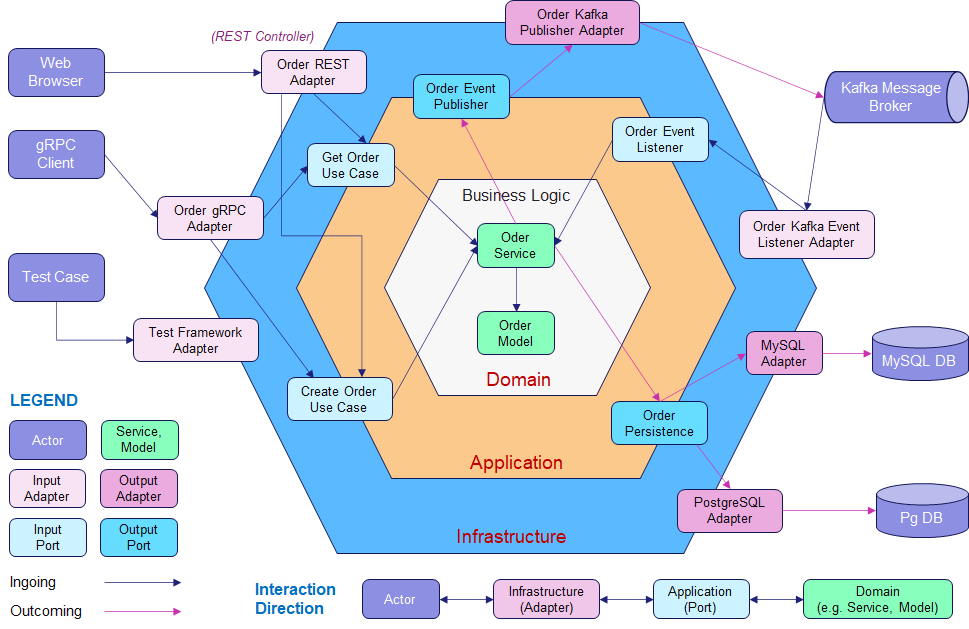
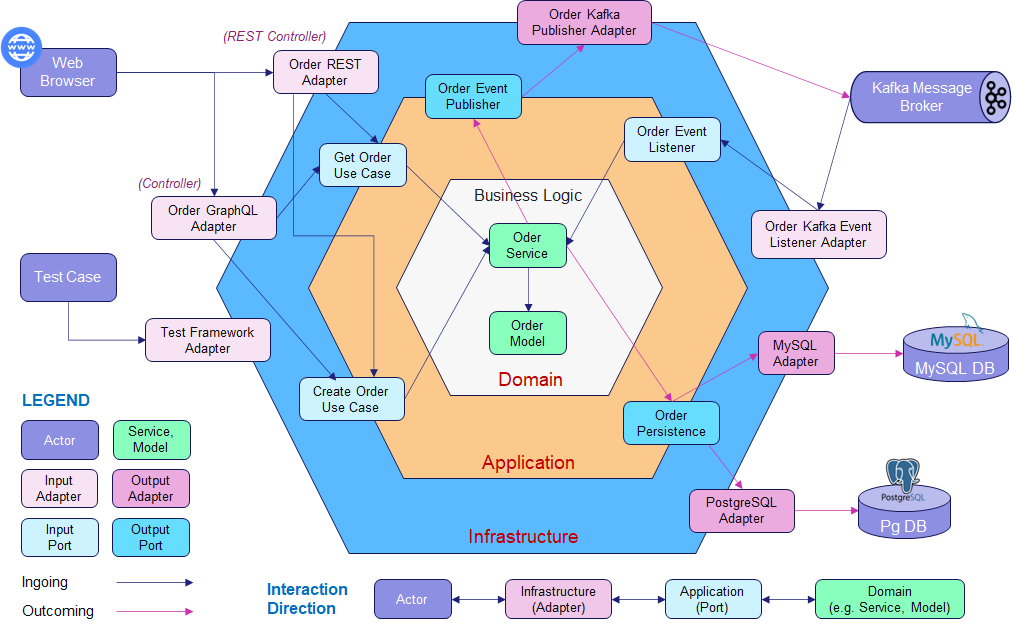
Updated GraphQL input

diff --git a/src/main/java/com/seedotech/dddhexagonalarchitecture/infrastructure/adapters/input/graphql/OrderGraphQLAdapter.java b/src/main/java/com/seedotech/dddhexagonalarchitecture/infrastructure/adapters/input/graphql/OrderGraphQLAdapter.java
@@ -4,6 +4,8 @@ import com.seedotech.dddhexagonalarchitecture.application.ports.input.CreateOrde
 import com.seedotech.dddhexagonalarchitecture.application.ports.input.GetOrderUseCase;
 import com.seedotech.dddhexagonalarchitecture.domain.model.Order;
 import com.seedotech.dddhexagonalarchitecture.domain.model.Restaurant;
+import com.seedotech.dddhexagonalarchitecture.infrastructure.adapters.input.graphql.data.request.OrderGraphQLInput;
+import com.seedotech.dddhexagonalarchitecture.infrastructure.adapters.input.graphql.mapper.OrderGraphQLMapper;
 import com.seedotech.dddhexagonalarchitecture.infrastructure.adapters.input.rest.data.request.OrderCreateRequest;
 import com.seedotech.dddhexagonalarchitecture.infrastructure.adapters.input.rest.mapper.OrderRestMapper;
 import graphql.schema.DataFetchingEnvironment;
@@ -25,16 +27,14 @@ public class OrderGraphQLAdapter {
 
     private final GetOrderUseCase getOrderUseCase;
 
-    private final OrderRestMapper orderRestMapper;
+    private final OrderGraphQLMapper orderGraphQLMapper;
 
     @MutationMapping
-    public Order createOrder(@Argument OrderCreateRequest orderCreateRequest) {
+    public Order createOrder(@Argument OrderGraphQLInput orderGraphQLInput) {
         // Request to domain
-        Order order = orderRestMapper.toOrder(orderCreateRequest);
+        Order order = orderGraphQLMapper.toOrder(orderGraphQLInput);
 
         order = createOrderUseCase.createOrder(order);
-
-        // Domain to response
         return order;
     }
 
@@ -45,7 +45,7 @@ public class OrderGraphQLAdapter {
     }
 
 //    @QueryMapping
-//    public Order order(@Argument Long id, DataFetchingEnvironment environment) {
+//    public Iterable<Department> order(@Argument Long id, DataFetchingEnvironment environment) {
 //        Specification<Order> spec = byId(id);
 //        DataFetchingFieldSelectionSet selectionSet = environment.getSelectionSet();
 //        if (selectionSet.contains("restaurants"))

diff --git a/src/main/java/com/seedotech/dddhexagonalarchitecture/infrastructure/adapters/input/graphql/mapper/OrderGraphQLMapper.java b/src/main/java/com/seedotech/dddhexagonalarchitecture/infrastructure/adapters/input/graphql/mapper/OrderGraphQLMapper.java
@@ -1,0 +1,14 @@
+package com.seedotech.dddhexagonalarchitecture.infrastructure.adapters.input.graphql.mapper;
+
+import com.seedotech.dddhexagonalarchitecture.domain.model.Order;
+import com.seedotech.dddhexagonalarchitecture.infrastructure.adapters.input.graphql.data.request.OrderGraphQLInput;
+import com.seedotech.dddhexagonalarchitecture.infrastructure.adapters.input.rest.data.request.OrderCreateRequest;
+import com.seedotech.dddhexagonalarchitecture.infrastructure.adapters.input.rest.data.response.OrderCreateResponse;
+import com.seedotech.dddhexagonalarchitecture.infrastructure.adapters.input.rest.data.response.OrderQueryResponse;
+import org.mapstruct.Mapper;
+
+@Mapper
+public interface OrderGraphQLMapper {
+
+    Order toOrder(OrderGraphQLInput orderGraphQLInput);
+}

diff --git a/src/main/java/com/seedotech/dddhexagonalarchitecture/infrastructure/adapters/output/persistence/OrderPersistenceAdapter.java b/src/main/java/com/seedotech/dddhexagonalarchitecture/infrastructure/adapters/output/persistence/OrderPersistenceAdapter.java
@@ -7,6 +7,7 @@ import com.seedotech.dddhexagonalarchitecture.infrastructure.adapters.output.per
 import com.seedotech.dddhexagonalarchitecture.infrastructure.adapters.output.persistence.repository.OrderRepository;
 import lombok.RequiredArgsConstructor;
 
+import java.util.List;
 import java.util.Optional;
 
 @RequiredArgsConstructor
@@ -34,5 +35,4 @@ public class OrderPersistenceAdapter implements OrderPersistence {
         Order order = orderPersistenceMapper.toOrder(orderEntity.get());
         return Optional.of(order);
     }
-
 }

diff --git a/src/main/java/com/seedotech/dddhexagonalarchitecture/infrastructure/adapters/input/graphql/data/request/OrderGraphQLInput.java b/src/main/java/com/seedotech/dddhexagonalarchitecture/infrastructure/adapters/input/graphql/data/request/OrderGraphQLInput.java
@@ -1,0 +1,15 @@
+package com.seedotech.dddhexagonalarchitecture.infrastructure.adapters.input.graphql.data.request;
+
+import lombok.*;
+
+@Data
+@AllArgsConstructor
+@NoArgsConstructor
+public class OrderGraphQLInput {
+
+    private String name;
+
+    private String description;
+
+    private int total;
+}

diff --git a/src/main/java/com/seedotech/dddhexagonalarchitecture/application/ports/output/OrderPersistence.java b/src/main/java/com/seedotech/dddhexagonalarchitecture/application/ports/output/OrderPersistence.java
@@ -9,5 +9,4 @@ public interface OrderPersistence {
     Order saveOrder(Order order);
 
     Optional<Order> getOrderById(Long id);
-
 }

diff --git a/README.md b/README.md
@@ -41,95 +41,104 @@ They are implementations of a functionality (**Port**) for a given **product/tec
 
 **Project Structure**
 ```
-└───dddhexagonalarchitecture                                      
-    │   DDDHexagonalArchitectureApplication.java                  
-    │                                                             
-    ├───application                                               
-    │   └───ports                                                 
-    │       ├───input                                             
-    │       │       CreateOrderUseCase.java                       
-    │       │       CreateRestaurantUseCase.java                  
-    │       │       GetOrderUseCase.java                          
-    │       │       GetRestaurantUseCase.java                     
-    │       │                                                     
-    │       └───output                                            
-    │               OrderEventPublisher.java                      
-    │               OrderPersistence.java                         
-    │               RestaurantPersistence.java                    
-    │                                                             
-    ├───domain                                                    
-    │   ├───event                                                 
-    │   │       OrderCreatedEvent.java                            
-    │   │                                                         
-    │   ├───exception                                             
-    │   │       OrderNotFound.java                                
-    │   │       RestaurantNotFound.java                           
-    │   │                                                         
-    │   ├───model                                                 
-    │   │       Order.java                                        
-    │   │       Restaurant.java                                   
-    │   │                                                         
-    │   └───service                                               
-    │           OrderService.java                                 
-    │           RestaurantService.java                            
-    │                                                             
-    └───infrastructure                                            
-        └───adapters                                              
-            ├───config                                            
-            │       BeanConfiguration.java                        
-            │                                                     
-            ├───input                                             
-            │   ├───eventlistener                                 
-            │   │       OrderEventListenerAdapter.java            
-            │   │                                                 
-            │   ├───grpc                                          
-            │   │   ├───data                                      
-            │   │   └───mapper                                    
-            │   └───rest                                          
-            │       │   OrderRestAdapter.java                     
-            │       │   RestaurantRestAdapter.java                
-            │       │                                             
-            │       ├───data                                      
-            │       │   ├───request                               
-            │       │   │       OrderCreateRequest.java           
-            │       │   │       RestaurantCreateRequest.java      
-            │       │   │                                         
-            │       │   └───response                              
-            │       │           OrderCreateResponse.java          
-            │       │           OrderQueryResponse.java           
-            │       │           RestaurantCreateResponse.java     
-            │       │           RestaurantQueryResponse.java      
-            │       │                                             
-            │       └───mapper                                    
-            │               OrderRestMapper.java                  
-            │               RestaurantRestMapper.java             
-            │                                                     
-            └───output                                            
-                ├───customizedexception                           
-                │   │   CustomizedExceptionAdapter.java           
-                │   │                                             
-                │   └───data                                      
-                │       └───response                              
-                │               ExceptionResponse.java            
-                │                                                 
-                ├───eventpublisher                                
-                │       OrderEventPublisherAdapter.java           
-                │                                                 
-                └───persistence                                   
-                    │   OrderPersistenceAdapter.java              
-                    │   RestaurantPersistenceAdapter.java         
-                    │                                             
-                    ├───entity                                    
-                    │       OrderEntity.java                      
-                    │       RestaurantEntity.java                 
-                    │                                             
-                    ├───mapper                                    
-                    │       OrderPersistenceMapper.java           
-                    │       RestaurantPersistenceMapper.java      
-                    │                                             
-                    └───repository                                
-                            OrderRepository.java                  
-                            RestaurantRepository.java                                                                                           
+│   DDDHexagonalArchitectureApplication.java               
+│                                                          
+├───application                                            
+│   └───ports                                              
+│       ├───input                                          
+│       │       CreateOrderUseCase.java                    
+│       │       CreateRestaurantUseCase.java               
+│       │       GetOrderUseCase.java                       
+│       │       GetRestaurantUseCase.java                  
+│       │                                                  
+│       └───output                                         
+│               OrderEventPublisher.java                   
+│               OrderPersistence.java                      
+│               RestaurantPersistence.java                 
+│                                                          
+├───domain                                                 
+│   ├───event                                              
+│   │       OrderCreatedEvent.java                         
+│   │                                                      
+│   ├───exception                                          
+│   │       OrderNotFound.java                             
+│   │       RestaurantNotFound.java                        
+│   │                                                      
+│   ├───model                                              
+│   │       Order.java                                     
+│   │       Restaurant.java                                
+│   │                                                      
+│   └───service                                            
+│           OrderService.java                              
+│           RestaurantService.java                         
+│                                                          
+└───infrastructure                                         
+    └───adapters                                           
+        ├───config                                         
+        │       BeanConfiguration.java                     
+        │                                                  
+        ├───input                                          
+        │   ├───eventlistener                              
+        │   │       OrderEventListenerAdapter.java         
+        │   │                                              
+        │   ├───graphql                                    
+        │   │   │   OrderGraphQLAdapter.java               
+        │   │   │                                          
+        │   │   ├───data                                   
+        │   │   │   └───request                            
+        │   │   │           OrderGraphQLInput.java         
+        │   │   │                                          
+        │   │   └───mapper                                 
+        │   │           OrderGraphQLMapper.java            
+        │   │                                              
+        │   ├───grpc                                       
+        │   │   ├───data                                   
+        │   │   └───mapper                                 
+        │   └───rest                                       
+        │       │   OrderRestAdapter.java                  
+        │       │   RestaurantRestAdapter.java             
+        │       │                                          
+        │       ├───data                                   
+        │       │   ├───request                            
+        │       │   │       OrderCreateRequest.java        
+        │       │   │       RestaurantCreateRequest.java   
+        │       │   │                                      
+        │       │   └───response                           
+        │       │           OrderCreateResponse.java       
+        │       │           OrderQueryResponse.java        
+        │       │           RestaurantCreateResponse.java  
+        │       │           RestaurantQueryResponse.java   
+        │       │                                          
+        │       └───mapper                                 
+        │               OrderRestMapper.java               
+        │               RestaurantRestMapper.java          
+        │                                                  
+        └───output                                         
+            ├───customizedexception                        
+            │   │   CustomizedExceptionAdapter.java        
+            │   │                                          
+            │   └───data                                   
+            │       └───response                           
+            │               ExceptionResponse.java         
+            │                                              
+            ├───eventpublisher                             
+            │       OrderEventPublisherAdapter.java        
+            │                                              
+            └───persistence                                
+                │   OrderPersistenceAdapter.java           
+                │   RestaurantPersistenceAdapter.java      
+                │                                          
+                ├───entity                                 
+                │       OrderEntity.java                   
+                │       RestaurantEntity.java              
+                │                                          
+                ├───mapper                                 
+                │       OrderPersistenceMapper.java        
+                │       RestaurantPersistenceMapper.java   
+                │                                          
+                └───repository                             
+                        OrderRepository.java               
+                        RestaurantRepository.java                                                                                                            
 ```
 ## 3. Logging and Monitoring Solution
 The 3 pillars of observability: **logs**, **metrics** and **traces**
@@ -218,19 +227,12 @@ When modernizing frontend APIs with GraphQL, you can build applications faster b
 
 ### GraphQL API Testing
 
-Access to http://localhost:2706/graphiql?path=/graphql and type the following queries to get data
+Access to http://localhost:2706/graphiql and type the following queries to get data
 
-- Query List
+- Create a New Order
 
 ```graphql
-{
-  orders {
-    id
-    name
-    description
-    total
-  }
-}
+mutation {createOrder(orderGraphQLInput: {name: "Cake" description: "Sweet Cake" total: 100}) {id name description total}}
 ```
 
 - Query Specified Order by ID
